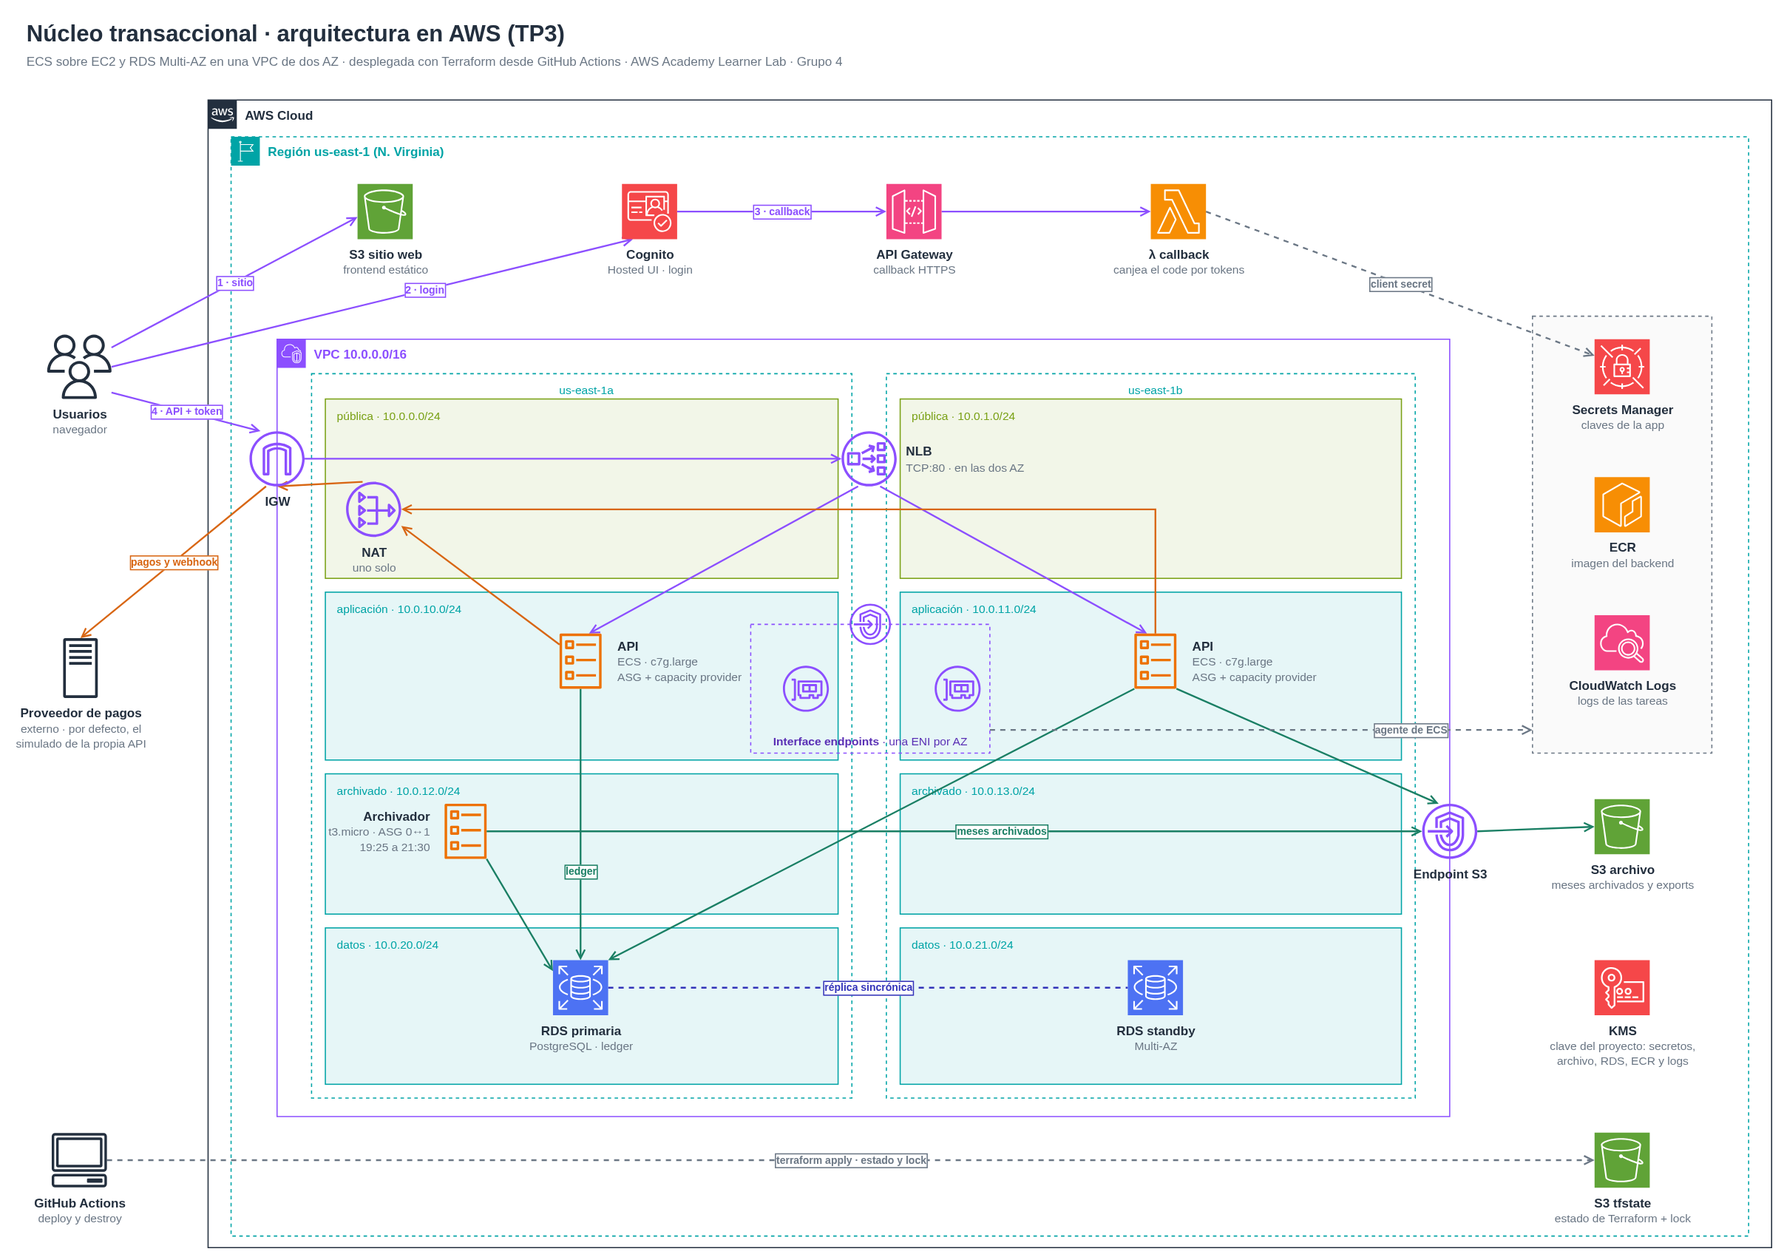
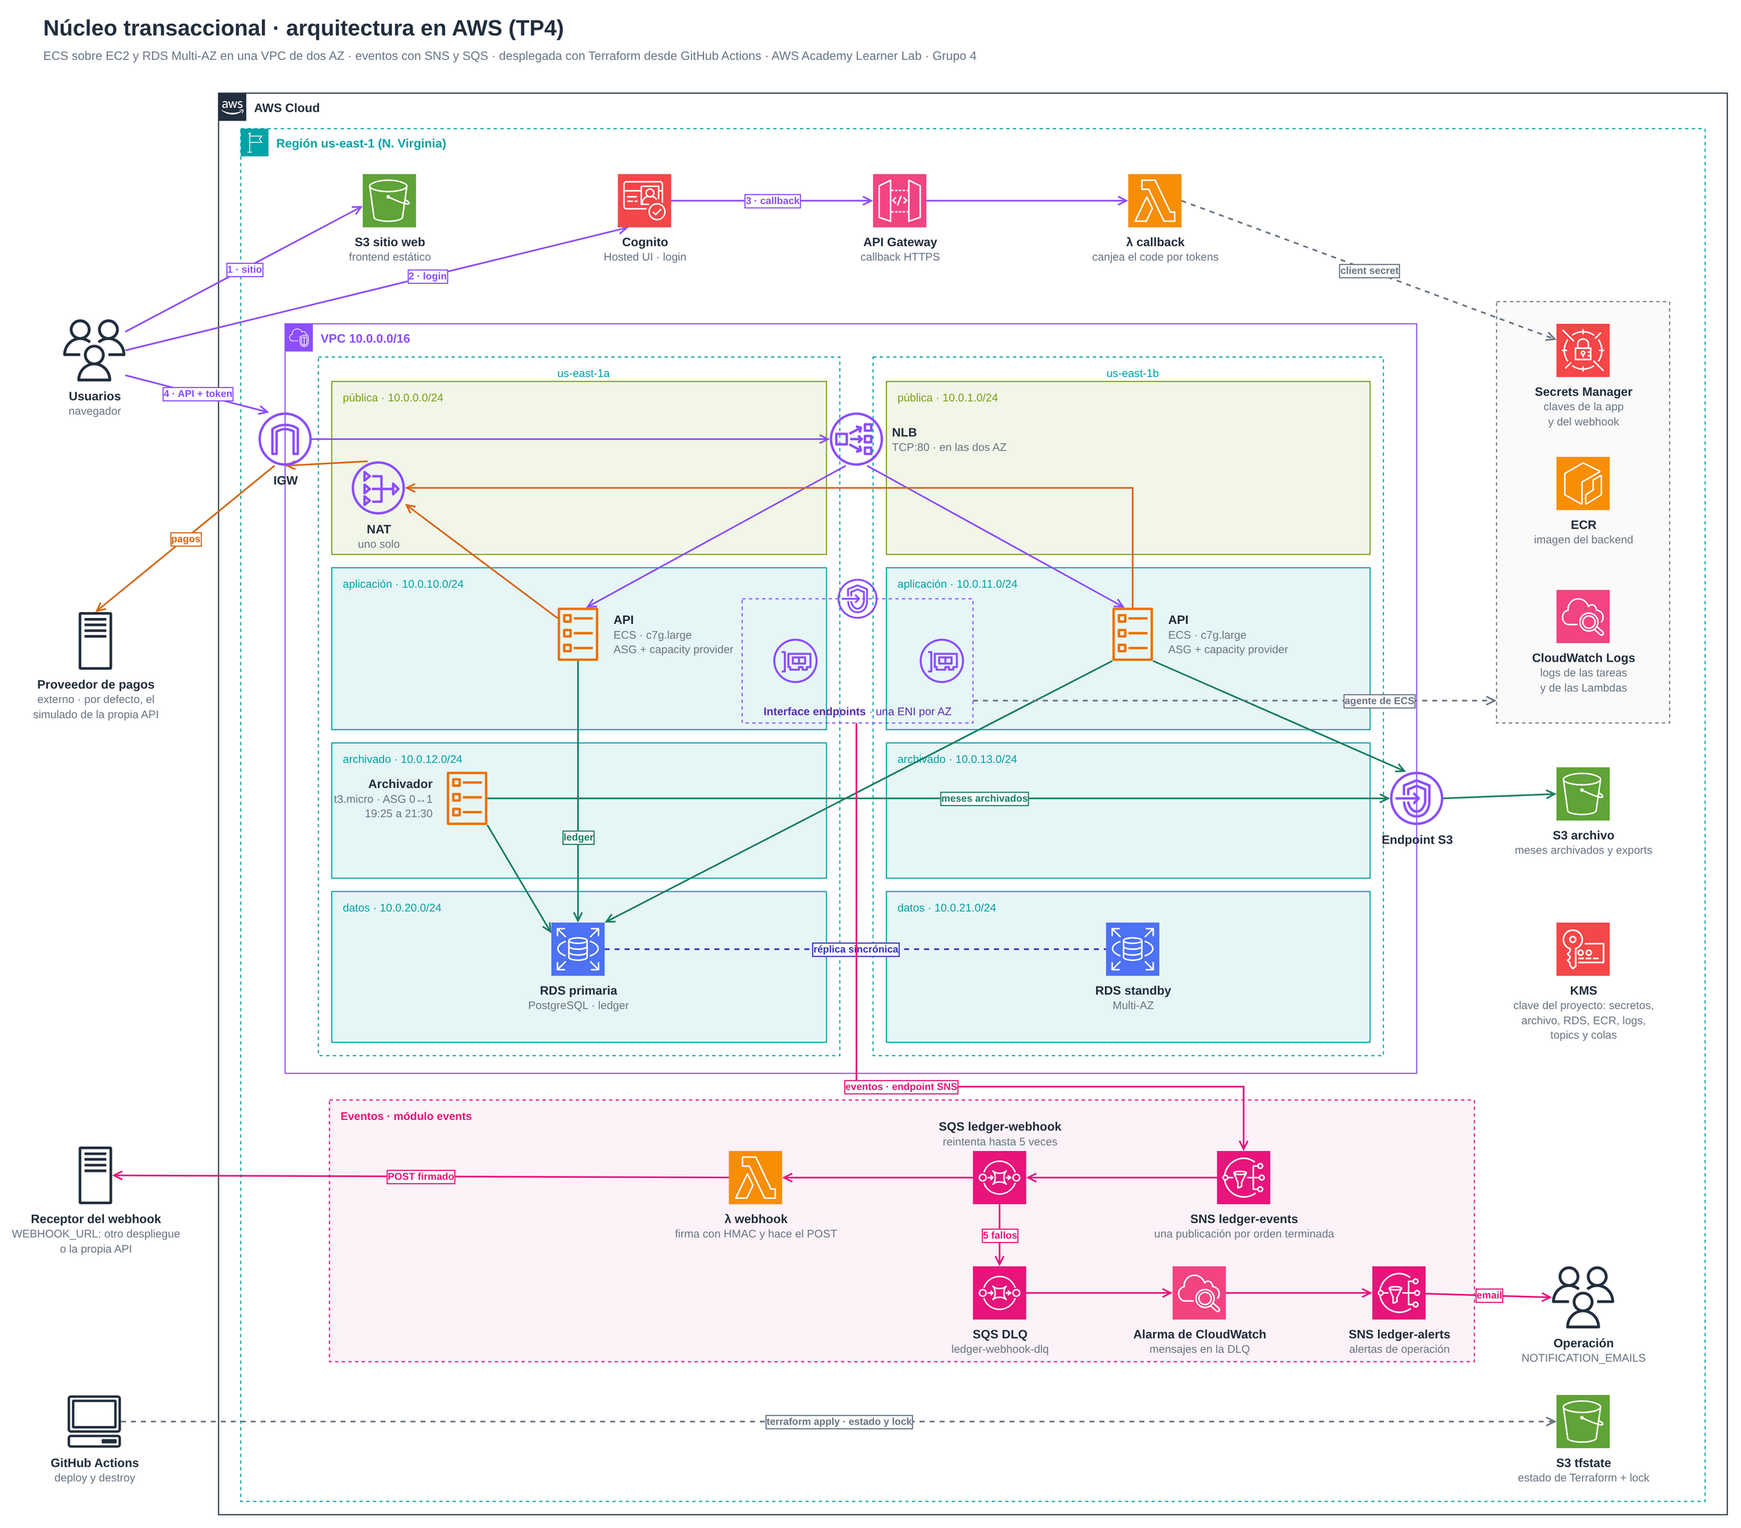
docs: eventos con SNS y SQS en el README, ARCHITECTURE y el diagrama
- diagrama: franja de eventos (endpoint SNS, ledger-events, cola y DLQ, Lambda del webhook,
  alarma y ledger-alerts); el webhook ya no sale por el NAT; título TP4
- README: flujo de datos con los eventos, cómo probar la DLQ, endpoint de SNS
- ARCHITECTURE: ocho interface endpoints, KMS para topics y colas, NAT y webhook, por qué no SES
- modules/events: tablas de terraform-docs

diff --git a/ARCHITECTURE.md b/ARCHITECTURE.md
@@ -11,12 +11,12 @@ cuenta virtual con la que transfiere a otras cuentas del PSP, ingresa dinero des
 lo retira hacia afuera a través de un proveedor de infraestructura financiera. Cada operación
 se liquida dentro del mismo request, de forma idempotente, contra un ledger de partida doble.
 Lo único diferido es lo que ningún usuario espera: el archivado de los meses viejos a S3 y
-las notificaciones (webhook y mail), que salen por SNS después de responder.
+el webhook de cada orden terminada, que sale por SNS y SQS después de responder.
 
 Restricciones que guían el diseño:
 
 - **AWS Academy**: no se pueden crear usuarios ni roles de IAM. Las instancias usan
-  `LabInstanceProfile` y las tareas de ECS y la Lambda usan `LabRole`. Sólo está habilitada
+  `LabInstanceProfile` y las tareas de ECS y las Lambdas usan `LabRole`. Sólo está habilitada
   `us-east-1`.
 - **Reproducible desde el pipeline**: todo vive en código y se despliega y destruye desde
   GitHub Actions, en cualquier cuenta, sin editar nada. Los nombres que tienen que ser únicos
@@ -296,15 +296,16 @@ rotarlas y poder retirar una clave comprometida. Por eso hay una clave propia, `
 
 - **Qué cifra:** los secretos de Secrets Manager, el bucket del archivo (SSE-KMS con *bucket
   key*, una clave de datos por bucket en lugar de una llamada a KMS por objeto), el
-  almacenamiento y los backups de RDS, las imágenes de ECR y los logs de ECS, de la Lambda y
-  de API Gateway. Los discos raíz de las instancias de ECS se cifran con la clave de AWS para
+  almacenamiento y los backups de RDS, las imágenes de ECR, los topics de SNS, las colas de
+  SQS y los logs de ECS, de las Lambdas y de API Gateway. Los discos raíz de las instancias de ECS se cifran con la clave de AWS para
   EBS (`aws/ebs`) y no con la del proyecto: para que Auto Scaling lance instancias con discos
   cifrados con una clave propia, su rol de servicio tendría que figurar en la política de la
   clave.
-- **Quién la usa:** la política nombra tres principales: la cuenta (sin ese permiso la clave
-  quedaría inadministrable), el `LabRole`, sólo para las operaciones de cifrado (nombrado
-  explícitamente para no depender de lo que permita su política de IAM en el laboratorio) y
-  CloudWatch Logs, limitado a los log groups de la cuenta. El permiso de la cuenta delega en
+- **Quién la usa:** la política nombra a la cuenta (sin ese permiso la clave quedaría
+  inadministrable), al `LabRole`, sólo para las operaciones de cifrado (nombrado explícitamente
+  para no depender de lo que permita su política de IAM en el laboratorio), a CloudWatch Logs,
+  limitado a los log groups de la cuenta, y a SNS y CloudWatch, sólo para cifrar y descifrar:
+  SNS escribe en la cola cifrada y CloudWatch publica las alarmas en el topic cifrado. El permiso de la cuenta delega en
   IAM, y la política de IAM del `LabRole` es amplia: en la práctica también puede administrar y
   borrar la clave (ver [Trade-offs](#10-trade-offs)).
 - **Rotación:** automática, anual. KMS conserva las versiones anteriores, así que lo cifrado
@@ -366,11 +367,13 @@ sumar una suscripción, sin tocar la API.
   una suscripción nueva pueda filtrar sin leer el cuerpo.
 - **Alertas.** Un topic aparte, `ledger-alerts`, manda por email la alarma de la DLQ a las
   direcciones de `notification_emails` (suscripciones de SNS que cada una confirma).
-- **Red y cifrado.** La API publica por el interface endpoint de SNS, sin pasar por el NAT. Los
-  topics y la cola se cifran con la clave del proyecto, cuya política habilita a SNS (escribe
-  en la cola) y a CloudWatch (publica las alarmas en el topic).
+- **Red y cifrado.** La API publica por el interface endpoint de SNS, sin pasar por el NAT. La
+  Lambda corre fuera de la VPC y hace el POST directo a `webhook_url`. Los topics y las colas
+  se cifran con la clave del proyecto, cuya política habilita a SNS (escribe en la cola) y a
+  CloudWatch (publica las alarmas en el topic).
 - **Sin mails a los titulares.** Se descartó mandarlos por SES porque AWS Academy no habilita
-  SES: el rol del laboratorio no tiene permisos de SES (`ses:GetAccount` da `AccessDenied`).
+  SES: el rol del laboratorio no tiene permisos de SES (`ses:GetAccount` y
+  `ses:VerifyEmailIdentity` dan `AccessDenied`).
 
 ## 8. Frontend
 
@@ -430,22 +433,23 @@ nuevo y Destroy no tendría qué destruir.
 
 - **Un solo NAT**, en la primera AZ. Ahorra el costo de uno por AZ; si esa AZ se cae, las
   tareas de la API de la otra siguen atendiendo y llegando a la base y a los servicios de AWS
-  (por los endpoints), pero no al proveedor, al webhook ni a las claves públicas de Cognito. Las
+  (por los endpoints), pero no al proveedor ni a las claves públicas de Cognito. El webhook no
+  depende del NAT: la Lambda corre fuera de la VPC. Las
   tareas que ya tenían las claves siguen validando sesiones; una tarea nueva no puede hasta que
   vuelva el NAT. Con el proveedor por defecto, el mock de la propia API, las operaciones con el
   proveedor tampoco se completan, porque la API lo llama por el NLB.
-- **Siete interface endpoints**, en las dos AZ: unos USD 0,14 por hora, tres veces el NAT.
+- **Ocho interface endpoints**, en las dos AZ: unos USD 0,16 por hora, más de tres veces el NAT.
   Son el precio de que el archivador no tenga ninguna salida a Internet: la alternativa barata
   es darle ruta al NAT, y entonces el único componente que borra datos del ledger podría
   mandarlos a cualquier lado. También dejan las instancias de la API independientes del NAT
-  para hablar con ECS, ECR y Logs.
+  para hablar con ECS, ECR y Logs, y a las tareas para publicar los eventos en SNS.
 - **La API en HTTP, sin TLS.** El laboratorio no tiene un dominio propio para emitir un
   certificado. El access token y las claves de operación (`X-Admin-Key`, `X-Mock-Key`) viajan
   en claro entre el navegador y el NLB; el login, en cambio, es HTTPS de punta a punta (Hosted
   UI y API Gateway).
 - **Los secretos siguen en el state de Terraform**, porque los genera Terraform. El state está
   en un bucket privado y cifrado.
-- **`LabRole` para todo**: las tareas, el agente de ECS y la Lambda tienen los permisos del rol
+- **`LabRole` para todo**: las tareas, el agente de ECS y las Lambdas tienen los permisos del rol
   del laboratorio, no unos mínimos por componente. Por eso la separación de custodios de la
   clave KMS no es real: en una cuenta propia cada servicio tendría su rol y la política de la
   clave nombraría sólo a los que la necesitan.
@@ -460,7 +464,7 @@ nuevo y Destroy no tendría qué destruir.
   tiene que poder borrarla sin un apply previo. Mientras está desplegada guarda 7 días de backups
   automáticos, que permiten volver a cualquier punto de ese período (por ejemplo, después de un
   reinicio del ledger).
-- **Sin X-Ray en la Lambda, Performance Insights en RDS ni VPC Flow Logs**, por el laboratorio:
+- **Sin X-Ray en las Lambdas, Performance Insights en RDS ni VPC Flow Logs**, por el laboratorio:
   el usuario de AWS Academy no puede leer las trazas de X-Ray ni las métricas de Performance
   Insights (los dos se pueden activar, pero nadie vería lo que juntan), y la trust policy de
   `LabRole` no incluye a `vpc-flow-logs.amazonaws.com`, así que los Flow Logs sólo podrían ir a

diff --git a/README.md b/README.md
@@ -1,4 +1,4 @@
-# Núcleo Transaccional Elástico — TP3 (Terraform)
+# Núcleo Transaccional Elástico — TP4 (Terraform)
 
 Cloud Computing · ITBA · 2026Q2 · Grupo 4
 
@@ -6,6 +6,7 @@ Núcleo transaccional de un PSP (proveedor de servicios de pago) desplegado en A
 Cada usuario tiene una cuenta virtual con la que transfiere a otras cuentas, ingresa y retira
 dinero hacia el exterior a través de un proveedor; cada operación se liquida dentro del mismo
 request contra un ledger de partida doble en PostgreSQL, y los meses viejos se archivan en S3.
+Cada orden terminada se publica como evento en SNS, y de ahí sale el webhook hacia otro sistema.
 
 La arquitectura detallada, con el porqué de cada decisión y cómo se aplicaron las correcciones de
 las entregas anteriores, está en [`ARCHITECTURE.md`](ARCHITECTURE.md).
@@ -23,12 +24,15 @@ las entregas anteriores, está en [`ARCHITECTURE.md`](ARCHITECTURE.md).
 4. La API valida el token contra Cognito y liquida cada operación en RDS PostgreSQL Multi-AZ, en
    las subredes de `data`.
 5. Los ingresos y egresos hacia el exterior van al proveedor por el NAT. Por defecto es el
-   proveedor simulado que trae la propia API en `/servicio-mock`. Si hay `webhook_url`, la API
-   avisa ahí cada orden terminada.
-6. Todos los días, en la ventana de archivado, ECS levanta una tarea del archivador en las
+   proveedor simulado que trae la propia API en `/servicio-mock`.
+6. Cuando una orden termina, la API publica un evento en el topic SNS `ledger-events` por el
+   interface endpoint de SNS. El topic lo deja en la cola SQS `ledger-webhook`, y una Lambda lo
+   firma y lo manda a `webhook_url`. Lo que agota los reintentos queda en una DLQ, cuya alarma
+   avisa por mail (topic `ledger-alerts`).
+7. Todos los días, en la ventana de archivado, ECS levanta una tarea del archivador en las
    subredes de `archive`, que no tienen salida a Internet. Mueve a S3 (`transaction-history/`)
    los meses que superan la retención, por el gateway endpoint.
-7. El extracto de un mes archivado lo arma la API leyendo ese objeto de S3; las exportaciones
+8. El extracto de un mes archivado lo arma la API leyendo ese objeto de S3; las exportaciones
    del histórico también quedan en el bucket (`exports/`).
 
 Toda la operación (deploy, plan y destrucción) se hace desde **GitHub Actions**: el workflow
@@ -269,9 +273,15 @@ Después, entrar por `website_url`:
    ![Operación: estado del despliegue, base y tarea que atendió el pedido](img/operacion.png)
 
 5. **Eventos.** Con `WEBHOOK_URL` cargada, cada orden terminada aparece en *Avisos recibidos*
-   del otro despliegue. Para verlos sin otro equipo, apuntar `WEBHOOK_URL` a la propia API
-   (`<api_url>/webhooks/recibidos`). Lo que hace la Lambda queda en `/aws/lambda/ledger-webhook`
-   de CloudWatch Logs.
+   del otro despliegue, con la firma verificada. Para verlos sin otro equipo, apuntar
+   `WEBHOOK_URL` a la propia API (`<api_url>/webhooks/recibidos`). Lo que hace la Lambda queda
+   en `/aws/lambda/ledger-webhook` de CloudWatch Logs.
+
+   Para ver la DLQ, apuntar `WEBHOOK_URL` a una ruta que no existe (por ejemplo
+   `<api_url>/webhooks/no-existe`), volver a correr Deploy y hacer una transferencia. SQS
+   reintenta una vez por minuto; al quinto fallo el aviso pasa a `ledger-webhook-dlq` y a las
+   direcciones de `NOTIFICATION_EMAILS` les llega la alarma `ledger-webhook-dlq`. Después,
+   volver a la URL correcta y vaciar la DLQ (**SQS → ledger-webhook-dlq → Purge**).
 
 ### 5. Destruir al terminar
 
@@ -354,9 +364,10 @@ y los nombres de las subredes se derivan en [`locals.tf`](terraform/organization
 
 - `aws_vpc_endpoint.s3`: gateway endpoint de S3 en las tablas de `app` y `archive`, con una
   política que sólo deja llegar al bucket del proyecto y al de las capas de ECR.
-- `aws_vpc_endpoint.interface`: un interface endpoint por servicio que necesita el agente de
-  ECS (`ecs`, `ecs-agent`, `ecs-telemetry`, `ecr.api`, `ecr.dkr`, `logs`, `secretsmanager`), en
-  las subredes de `app`, que sólo acepta credenciales de la propia cuenta.
+- `aws_vpc_endpoint.interface`: un interface endpoint por servicio que necesitan el agente de
+  ECS (`ecs`, `ecs-agent`, `ecs-telemetry`, `ecr.api`, `ecr.dkr`, `logs`, `secretsmanager`) y la
+  API para publicar los eventos (`sns`), en las subredes de `app`, que sólo acepta credenciales
+  de la propia cuenta.
 
 **Versión:** `~> 6.7`.
 
@@ -521,7 +532,7 @@ sobre `local.services`; ver [Cómputo](ARCHITECTURE.md#3-cómputo).
 | Meta-argumento | Dónde | Para qué |
 |---|---|---|
 | `for_each` | `organization/main.tf` (`module "capacity"`, `module "service"`) | Instancias y servicio de ECS para la API y el archivador sin duplicar código |
-| `for_each` | `organization/network.tf` | Un interface endpoint por servicio de AWS que necesita el agente de ECS |
+| `for_each` | `organization/network.tf` | Un interface endpoint por servicio de AWS que necesitan el agente de ECS y la API |
 | `for_each` | `organization/secrets.tf` | Las cuatro claves generadas (`db`, `admin`, `mock`, `webhook`) y un secreto de Secrets Manager por servicio |
 | `for_each` | `modules/security_groups/main.tf` | Un SG por capa y una regla por fila de la tabla de reglas |
 | `for_each` | `modules/website/main.tf` | Un objeto de S3 por archivo del frontend |
@@ -563,7 +574,7 @@ el `plan`, no a mitad del apply.
 | `aws_iam_role`, `aws_iam_instance_profile` | `organization/providers.tf` | `LabRole` y `LabInstanceProfile`: AWS Academy no deja crear IAM. El ARN de `LabRole` también va en la política de la clave KMS |
 | `aws_ec2_instance_type` | `modules/capacity/main.tf` | La arquitectura del tipo de instancia (x86 o arm64) |
 | `aws_ssm_parameter` | `modules/capacity/main.tf` | La AMI optimizada para ECS recomendada para esa arquitectura, sin fijar un ID |
-| `archive_file` | `modules/auth/main.tf` | El zip de la Lambda del callback |
+| `archive_file` | `modules/auth/main.tf`, `modules/events/main.tf` | El zip de la Lambda del callback y el de la del webhook |
 
 ---
 

diff --git a/terraform/modules/events/README.md b/terraform/modules/events/README.md
@@ -32,4 +32,66 @@ La API publica en `SNS_TOPIC_ARN` un mensaje por orden que llega a un estado ter
 receptor del webhook puede descartar los duplicados.
 
 <!-- BEGIN_TF_DOCS -->
+## Requirements
+
+| Name | Version |
+|------|---------|
+| <a name="requirement_terraform"></a> [terraform](#requirement\_terraform) | >= 1.9 |
+| <a name="requirement_archive"></a> [archive](#requirement\_archive) | >= 2.4 |
+| <a name="requirement_aws"></a> [aws](#requirement\_aws) | >= 6.28 |
+
+## Providers
+
+| Name | Version |
+|------|---------|
+| <a name="provider_archive"></a> [archive](#provider\_archive) | >= 2.4 |
+| <a name="provider_aws"></a> [aws](#provider\_aws) | >= 6.28 |
+
+## Modules
+
+No modules.
+
+## Resources
+
+| Name | Type |
+|------|------|
+| [aws_cloudwatch_log_group.this](https://registry.terraform.io/providers/hashicorp/aws/latest/docs/resources/cloudwatch_log_group) | resource |
+| [aws_cloudwatch_metric_alarm.webhook_dlq](https://registry.terraform.io/providers/hashicorp/aws/latest/docs/resources/cloudwatch_metric_alarm) | resource |
+| [aws_lambda_event_source_mapping.webhook](https://registry.terraform.io/providers/hashicorp/aws/latest/docs/resources/lambda_event_source_mapping) | resource |
+| [aws_lambda_function.this](https://registry.terraform.io/providers/hashicorp/aws/latest/docs/resources/lambda_function) | resource |
+| [aws_secretsmanager_secret.webhook](https://registry.terraform.io/providers/hashicorp/aws/latest/docs/resources/secretsmanager_secret) | resource |
+| [aws_secretsmanager_secret_version.webhook](https://registry.terraform.io/providers/hashicorp/aws/latest/docs/resources/secretsmanager_secret_version) | resource |
+| [aws_sns_topic.alerts](https://registry.terraform.io/providers/hashicorp/aws/latest/docs/resources/sns_topic) | resource |
+| [aws_sns_topic.events](https://registry.terraform.io/providers/hashicorp/aws/latest/docs/resources/sns_topic) | resource |
+| [aws_sns_topic_subscription.alerts](https://registry.terraform.io/providers/hashicorp/aws/latest/docs/resources/sns_topic_subscription) | resource |
+| [aws_sns_topic_subscription.webhook](https://registry.terraform.io/providers/hashicorp/aws/latest/docs/resources/sns_topic_subscription) | resource |
+| [aws_sqs_queue.webhook](https://registry.terraform.io/providers/hashicorp/aws/latest/docs/resources/sqs_queue) | resource |
+| [aws_sqs_queue.webhook_dlq](https://registry.terraform.io/providers/hashicorp/aws/latest/docs/resources/sqs_queue) | resource |
+| [aws_sqs_queue_policy.webhook](https://registry.terraform.io/providers/hashicorp/aws/latest/docs/resources/sqs_queue_policy) | resource |
+| [archive_file.this](https://registry.terraform.io/providers/hashicorp/archive/latest/docs/data-sources/file) | data source |
+
+## Inputs
+
+| Name | Description | Type | Default | Required |
+|------|-------------|------|---------|:--------:|
+| <a name="input_kms_key_arn"></a> [kms\_key\_arn](#input\_kms\_key\_arn) | Clave KMS de los topics, las colas, los logs y el secreto. Su política tiene que habilitar a sns.amazonaws.com y cloudwatch.amazonaws.com. | `string` | n/a | yes |
+| <a name="input_lambda_role_arn"></a> [lambda\_role\_arn](#input\_lambda\_role\_arn) | Rol de ejecución de la Lambda. En AWS Academy, el LabRole preexistente. | `string` | n/a | yes |
+| <a name="input_lambda_runtime"></a> [lambda\_runtime](#input\_lambda\_runtime) | Runtime de la Lambda. Node: el SDK de AWS viene en el runtime, sin dependencias ni paso de build. | `string` | `"nodejs22.x"` | no |
+| <a name="input_lambda_timeout"></a> [lambda\_timeout](#input\_lambda\_timeout) | Timeout de la Lambda, en segundos. La visibilidad de la cola del webhook es 6 veces este valor. | `number` | `10` | no |
+| <a name="input_log_retention_days"></a> [log\_retention\_days](#input\_log\_retention\_days) | Días que se conservan los logs de la Lambda. | `number` | `7` | no |
+| <a name="input_name_prefix"></a> [name\_prefix](#input\_name\_prefix) | Prefijo de los nombres: topics, colas, Lambda y secreto. | `string` | n/a | yes |
+| <a name="input_notification_emails"></a> [notification\_emails](#input\_notification\_emails) | Emails que se suscriben al topic de alertas de operación. | `list(string)` | `[]` | no |
+| <a name="input_webhook_max_attempts"></a> [webhook\_max\_attempts](#input\_webhook\_max\_attempts) | Cuántas veces se intenta entregar un aviso antes de mandarlo a la DLQ. | `number` | `5` | no |
+| <a name="input_webhook_secret"></a> [webhook\_secret](#input\_webhook\_secret) | Secreto HMAC de los avisos. Tiene que coincidir con el del que recibe. | `string` | n/a | yes |
+| <a name="input_webhook_source_dir"></a> [webhook\_source\_dir](#input\_webhook\_source\_dir) | Carpeta con el handler.mjs de la Lambda del webhook. | `string` | n/a | yes |
+| <a name="input_webhook_url"></a> [webhook\_url](#input\_webhook\_url) | Adonde se entregan los avisos. Vacía: la Lambda descarta los mensajes. | `string` | `""` | no |
+
+## Outputs
+
+| Name | Description |
+|------|-------------|
+| <a name="output_alerts_topic_arn"></a> [alerts\_topic\_arn](#output\_alerts\_topic\_arn) | Topic de alertas de operación: la alarma de la DLQ del webhook. |
+| <a name="output_topic_arn"></a> [topic\_arn](#output\_topic\_arn) | Topic donde la API publica cada orden terminada (SNS\_TOPIC\_ARN). |
+| <a name="output_webhook_dlq_url"></a> [webhook\_dlq\_url](#output\_webhook\_dlq\_url) | DLQ del webhook: los avisos que agotaron los reintentos. |
+| <a name="output_webhook_queue_url"></a> [webhook\_queue\_url](#output\_webhook\_queue\_url) | Cola de entrega del webhook. |
 <!-- END_TF_DOCS -->
